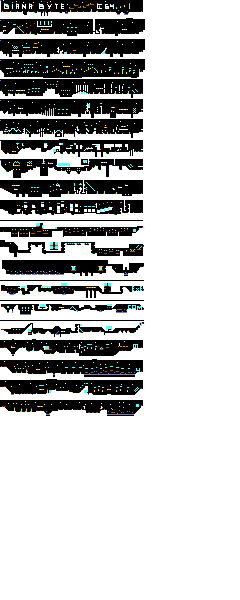
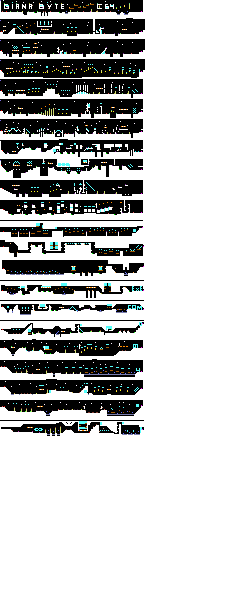
renderer is static now, added 21st level

Changed region(s): [[0.0, 0.69, 0.6125, 0.75]]

diff --git a/core/src/com/mdinic/game/giana/MapRenderer.java b/core/src/com/mdinic/game/giana/MapRenderer.java
@@ -19,6 +19,7 @@ import com.badlogic.gdx.graphics.g2d.freetype.FreeTypeFontGenerator;
 import com.badlogic.gdx.graphics.g2d.freetype.FreeTypeFontGenerator.FreeTypeFontParameter;
 import com.badlogic.gdx.math.Vector3;
 import com.mdinic.game.giana.Bullet.BulletState;
+import com.mdinic.game.giana.LevelConf.BrickColor;
 
 public class MapRenderer {
 
@@ -26,10 +27,11 @@ public class MapRenderer {
     Map map;
     OrthographicCamera cam;
 
+    float stateTime = 0;
+    Vector3 lerpTarget = new Vector3();
+
     SpriteBatch batch = new SpriteBatch(5460);
     private final SpriteBatch fontBatch;
-
-    int[][] blocks;
 
     Animation gianaLeft;
     Animation gianaRight;
@@ -47,11 +49,12 @@ public class MapRenderer {
     Animation gianaGrow;
     Animation smallDiamondAnim;
     Animation diamondAnim;
-    Animation treatBoxAnim;
+    java.util.Map<BrickColor, Animation> treatBoxAnim = new HashMap<BrickColor, Animation>();
     Animation whiteCristalAnim;
 
-    TextureRegion tileTexture;
-    TextureRegion usedTreatBox;
+    java.util.Map<BrickColor, TextureRegion> tileTexture = new HashMap<BrickColor, TextureRegion>();
+
+    java.util.Map<BrickColor, TextureRegion> usedTreatBox = new HashMap<BrickColor, TextureRegion>();
     TextureRegion spawn;
     TextureRegion dying;
     TextureRegion endDoor;
@@ -63,52 +66,67 @@ public class MapRenderer {
 
     java.util.Map<GoundMonsterType, Animation[]> groundMonsterAnimations = new HashMap<GoundMonsterType, Animation[]>();
 
-    private BitmapFont font;
-
-    int fontSize;
+    private final BitmapFont font;
 
     java.util.Map<SimpleImageType, TextureRegion> simpleImageTextureRegions = new HashMap<SimpleImageType, TextureRegion>();
     java.util.Map<FixedTrapType, Animation> fixedTrapTypeAnim = new HashMap<FixedTrapType, Animation>();
 
-    private Animation treatBallRightAnim;
-    private Animation treatBallLeftAnim;
-    private Animation piranhaUpAnim;
-    private Animation piranhaDownAnim;
-    private Animation waspRightAnim;
-    private Animation waspLeftAnim;
-    private Animation quicksandAnim;
-    private Animation brickAnim;
+    private final Animation treatBallRightAnim;
+    private final Animation treatBallLeftAnim;
+    private final Animation piranhaUpAnim;
+    private final Animation piranhaDownAnim;
+    private final Animation waspRightAnim;
+    private final Animation waspLeftAnim;
+    java.util.Map<BrickColor, Animation> quicksandAnim = new HashMap<LevelConf.BrickColor, Animation>();
 
-    private Animation lightningAnim;
-    private Animation doubleLightningAnim;
+    java.util.Map<BrickColor, Animation> brickAnim = new HashMap<LevelConf.BrickColor, Animation>();
 
-    public MapRenderer(Map map) {
-        this.map = map;
+    private final Animation lightningAnim;
+    private final Animation doubleLightningAnim;
+
+    public MapRenderer() {
+
         this.cam = new OrthographicCamera(20, SCENE_HEIGHT);
 
         fontBatch = new SpriteBatch();
         fontBatch.getProjectionMatrix().setToOrtho2D(0, 0, 480, 320);
 
-        this.cam.position.set(map.giana.pos.x, map.giana.pos.y, 0);
-        this.blocks = new int[(int) Math.ceil(this.map.tiles.length / 24.0f)][(int) Math
-                .ceil(this.map.tiles[0].length / 16.0f)];
+        Texture sprites = new Texture(Gdx.files.internal("data/sprites.png"));
 
-        createAnimations();
-    }
+        for (BrickColor color : BrickColor.values()) {
+            Texture brick = new Texture(Gdx.files.internal("data/bricks-" + color.getName() + ".png"));
 
-    private void createAnimations() {
-        LevelConf colors = LevelConf.values()[map.level];
+            TextureRegion[] brickRegion = new TextureRegion(brick).split(24, 16)[0];
+            brickAnim.put(color, new Animation(0.1f, brickRegion[1], brickRegion[2], brickRegion[3], brickRegion[4]));
 
-        Texture brick = new Texture(Gdx.files.internal("data/bricks-" + colors.getBrickColor().getName() + ".png"));
+            tileTexture.put(color, brickRegion[0]);
 
-        TextureRegion[] brickRegion = new TextureRegion(brick).split(24, 16)[0];
-        brickAnim = new Animation(0.1f, brickRegion[1], brickRegion[2], brickRegion[3], brickRegion[4]);
+            quicksandAnim.put(
+                    color,
+                    new Animation(0.1f, new TextureRegion(new Texture(Gdx.files.internal("data/quicksand-"
+                            + color.getName() + ".png"))).split(20, 20)[0]));
+
+            // treat box
+
+            Texture treatboxTexture = new Texture(Gdx.files.internal("data/treatbox-" + color.getName() + ".png"));
+
+            TextureRegion[] treatboxRegion = new TextureRegion(treatboxTexture).split(30, 20)[0];
+
+            usedTreatBox.put(color, new TextureRegion(sprites, 213 + color.ordinal() * 30, 377, 30, 20));
+
+            List<TextureRegion> tbArray = new ArrayList<TextureRegion>();
+            for (int i = 0; i < treatboxRegion.length; i++) {
+                tbArray.add(treatboxRegion[i]);
+            }
+            for (int i = treatboxRegion.length - 1; i >= 0; i--) {
+                tbArray.add(treatboxRegion[i]);
+            }
+            treatBoxAnim.put(color, new Animation(0.2f, tbArray.toArray(new TextureRegion[10])));
+        }
 
         bullet = new TextureRegion(new Texture(Gdx.files.internal("data/bullet.png")));
         bulletExplode = new TextureRegion(new Texture(Gdx.files.internal("data/bulletexplode.png")));
 
-        Texture sprites = new Texture(Gdx.files.internal("data/sprites.png"));
-        this.tileTexture = brickRegion[0];
         this.endDoor = new TextureRegion(sprites, 16, 196, 32, 32);
 
         simpleImageTextureRegions.put(SimpleImageType.BIG_CLOUD, new TextureRegion(sprites, 13, 10, 42, 17));
@@ -130,8 +148,7 @@ public class MapRenderer {
 
         Texture gianaTexture = new Texture(Gdx.files.internal("data/giana.png"));
         Texture diamondTexture = new Texture(Gdx.files.internal("data/diamond.png"));
-        Texture treatboxTexture = new Texture(Gdx.files.internal("data/treatbox-" + colors.getBrickColor().getName()
-                + ".png"));
+
         Texture movingSpikesTexture = new Texture(Gdx.files.internal("data/movingspikes.png"));
         Texture fireTexture = new Texture(Gdx.files.internal("data/fire.png"));
         Texture waterTexture = new Texture(Gdx.files.internal("data/water.png"));
@@ -145,9 +162,6 @@ public class MapRenderer {
         fixedTrapTypeAnim.put(FixedTrapType.MOVING_SPIKES, movingSpikesAnim);
         fixedTrapTypeAnim.put(FixedTrapType.WATER, waterAnim);
         fixedTrapTypeAnim.put(FixedTrapType.TRIANGLE, triangleAnim);
-
-        quicksandAnim = new Animation(0.1f, new TextureRegion(new Texture(Gdx.files.internal("data/quicksand-"
-                + colors.getBrickColor().getName() + ".png"))).split(20, 20)[0]);
 
         loadMonster("purple-alien", 20, 20, GoundMonsterType.PURPLE_ALIEN, 0.3f, false);
         loadMonster("yellow-alien", 20, 20, GoundMonsterType.YELLOW_ALIEN, 0.3f, false);
@@ -199,20 +213,6 @@ public class MapRenderer {
                 new Animation[] { new Animation(0.2f, groundMonstersRegion.split(24, 20)[0]) });
 
         diamondAnim = new Animation(0.3f, new TextureRegion(diamondTexture).split(16, 16)[0]);
-
-        // treat box
-        TextureRegion[] treatboxRegion = new TextureRegion(treatboxTexture).split(30, 20)[0];
-
-        usedTreatBox = new TextureRegion(sprites, 213 + colors.getBrickColor().ordinal() * 30, 377, 30, 20);
-
-        List<TextureRegion> tbArray = new ArrayList<TextureRegion>();
-        for (int i = 0; i < treatboxRegion.length; i++) {
-            tbArray.add(treatboxRegion[i]);
-        }
-        for (int i = treatboxRegion.length - 1; i >= 0; i--) {
-            tbArray.add(treatboxRegion[i]);
-        }
-        treatBoxAnim = new Animation(0.2f, tbArray.toArray(new TextureRegion[10]));
 
         TextureRegion treatBallRegion = new TextureRegion(gianaTexture, 0, 88, 175, 18);
 
@@ -272,16 +272,16 @@ public class MapRenderer {
         FreeTypeFontGenerator generator = new FreeTypeFontGenerator(Gdx.files.internal("data/Giana.ttf"));
         FreeTypeFontParameter parameter = new FreeTypeFontParameter();
 
-        fontSize = (Gdx.graphics.getHeight() / 320) * 12;
-
         parameter.size = 10;
         font = generator.generateFont(parameter); // font size 12
         font.setColor(new Color(0.87f, 0.95f, 0.47f, 1));
         generator.dispose(); // don't forget to dispose to avoid memory leaks!
     }
 
-    float stateTime = 0;
-    Vector3 lerpTarget = new Vector3();
+    public void setMap(Map map) {
+        this.map = map;
+        this.cam.position.set(map.giana.pos.x, map.giana.pos.y, 0);
+    }
 
     public void render(float deltaTime) {
 
@@ -462,11 +462,12 @@ public class MapRenderer {
     }
 
     private void renderTreatBoxes() {
+        BrickColor color = LevelConf.values()[map.level].getBrickColor();
         for (TreatBox box : map.treatBoxes) {
             if (box.active) {
-                batch.draw(treatBoxAnim.getKeyFrame(box.stateTime, true), box.pos.x, box.pos.y, 1, 1);
+                batch.draw(treatBoxAnim.get(color).getKeyFrame(box.stateTime, true), box.pos.x, box.pos.y, 1, 1);
             } else {
-                batch.draw(usedTreatBox, box.pos.x, box.pos.y, 1, 1);
+                batch.draw(usedTreatBox.get(color), box.pos.x, box.pos.y, 1, 1);
             }
         }
     }
@@ -520,9 +521,10 @@ public class MapRenderer {
     }
 
     private void renderQuickSand() {
+        BrickColor color = LevelConf.values()[map.level].getBrickColor();
         for (QuickSand sand : map.quickSandArray) {
             if (sand.active) {
-                TextureRegion frame = quicksandAnim.getKeyFrame(sand.stateTime, false);
+                TextureRegion frame = quicksandAnim.get(color).getKeyFrame(sand.stateTime, false);
 
                 batch.draw(frame, sand.pos.x + 0.0f, sand.pos.y, 0.33f, 1);
                 batch.draw(frame, sand.pos.x + 0.33f, sand.pos.y, 0.33f, 1);
@@ -550,15 +552,15 @@ public class MapRenderer {
     }
 
     private void drawBlocks() {
-
+        BrickColor color = LevelConf.values()[map.level].getBrickColor();
         for (Tile tile : map.tileArray) {
             if (tile.active) {
                 switch (tile.state) {
                 case NORMAL:
-                    batch.draw(tileTexture, tile.pos.x, tile.pos.y, 1, 1);
+                    batch.draw(tileTexture.get(color), tile.pos.x, tile.pos.y, 1, 1);
                     break;
                 case EXPLODING:
-                    batch.draw(brickAnim.getKeyFrame(tile.stateTime, false), tile.pos.x, tile.pos.y, 1, 1);
+                    batch.draw(brickAnim.get(color).getKeyFrame(tile.stateTime, false), tile.pos.x, tile.pos.y, 1, 1);
                     break;
                 case GONE:
                     break;
@@ -591,8 +593,6 @@ public class MapRenderer {
     }
 
     public void dispose() {
-        tileTexture.getTexture().dispose();
-        usedTreatBox.getTexture().dispose();
         spawn.getTexture().dispose();
         dying.getTexture().dispose();
         endDoor.getTexture().dispose();
@@ -601,6 +601,14 @@ public class MapRenderer {
         waspLeftDead.getTexture().dispose();
         waspRightDead.getTexture().dispose();
         strawberry.getTexture().dispose();
+
+        for (Entry<BrickColor, TextureRegion> entry : tileTexture.entrySet()) {
+            entry.getValue().getTexture().dispose();
+        }
+
+        for (Entry<BrickColor, TextureRegion> entry : usedTreatBox.entrySet()) {
+            entry.getValue().getTexture().dispose();
+        }
 
         for (Entry<FixedTrapType, Animation> entry : fixedTrapTypeAnim.entrySet()) {
             disposeAnimation(entry.getValue());
@@ -614,6 +622,18 @@ public class MapRenderer {
             for (Animation animation : entry.getValue()) {
                 disposeAnimation(animation);
             }
+        }
+
+        for (Entry<BrickColor, Animation> entry : treatBoxAnim.entrySet()) {
+            disposeAnimation(entry.getValue());
+        }
+
+        for (Entry<BrickColor, Animation> entry : quicksandAnim.entrySet()) {
+            disposeAnimation(entry.getValue());
+        }
+
+        for (Entry<BrickColor, Animation> entry : brickAnim.entrySet()) {
+            disposeAnimation(entry.getValue());
         }
 
         disposeAnimation(gianaLeft);
@@ -632,15 +652,13 @@ public class MapRenderer {
         disposeAnimation(gianaGrow);
         disposeAnimation(smallDiamondAnim);
         disposeAnimation(diamondAnim);
-        disposeAnimation(treatBoxAnim);
+
         disposeAnimation(treatBallRightAnim);
         disposeAnimation(treatBallLeftAnim);
         disposeAnimation(piranhaUpAnim);
         disposeAnimation(piranhaDownAnim);
         disposeAnimation(waspRightAnim);
         disposeAnimation(waspLeftAnim);
-        disposeAnimation(quicksandAnim);
-        disposeAnimation(brickAnim);
         disposeAnimation(lightningAnim);
         disposeAnimation(doubleLightningAnim);
         disposeAnimation(whiteCristalAnim);

diff --git a/core/src/com/mdinic/game/giana/screens/GameScreen.java b/core/src/com/mdinic/game/giana/screens/GameScreen.java
@@ -8,13 +8,12 @@ import com.badlogic.gdx.graphics.GL20;
 import com.mdinic.game.giana.GianaState;
 import com.mdinic.game.giana.LevelConf;
 import com.mdinic.game.giana.Map;
-import com.mdinic.game.giana.MapRenderer;
 import com.mdinic.game.giana.OnscreenControlRenderer;
 import com.mdinic.game.giana.Sounds;
 
 public class GameScreen extends GianaSistersScreen {
     Map map;
-    MapRenderer renderer;
+    // MapRenderer renderer;
     OnscreenControlRenderer controlRenderer;
 
     public GameScreen(Game game, int level) {
@@ -29,7 +28,7 @@ public class GameScreen extends GianaSistersScreen {
 
     @Override
     public void show() {
-        renderer = new MapRenderer(map);
+        renderer.setMap(map);
         controlRenderer = new OnscreenControlRenderer(map, this);
 
         Sounds.getInstance().play(LevelConf.values()[map.level].getMusic());
@@ -103,7 +102,6 @@ public class GameScreen extends GianaSistersScreen {
     public void hide() {
         Gdx.app.debug("GianaSisters", "dispose game screen");
         Sounds.getInstance().stop(LevelConf.values()[map.level].getMusic());
-        renderer.dispose();
         controlRenderer.dispose();
     }
 

diff --git a/core/src/com/mdinic/game/giana/LevelConf.java b/core/src/com/mdinic/game/giana/LevelConf.java
@@ -9,7 +9,8 @@ public enum LevelConf {
             BrickColor.RED, BgMusic.MUSIC_FAST), LEVEL12(BrickColor.GREY, BgMusic.MUSIC_FAST), LEVEL13(BrickColor.GREY,
             BgMusic.MUSIC_FAST), LEVEL14(BrickColor.GREY, BgMusic.MUSIC_FAST), LEVEL15(BrickColor.GREY,
             BgMusic.MUSIC_FAST), LEVEL16(BrickColor.RED, BgMusic.MUSIC_FAST), LEVEL17(0x826fe8, BrickColor.BROWN,
-            BgMusic.MUSIC_LIGHT), LEVEL18(0x826fe8), LEVEL19(0x826fe8), LEVEL20(0x826fe8);
+            BgMusic.MUSIC_LIGHT), LEVEL18(0x826fe8), LEVEL19(0x826fe8), LEVEL20(0x826fe8), LEVEL21(BrickColor.VIOLET,
+            BgMusic.MUSIC_FAST), LEVEL22(BrickColor.VIOLET, BgMusic.MUSIC_FAST);
 
     enum BrickType {
         SMALL, BIG

diff --git a/core/src/com/mdinic/game/giana/screens/GianaSistersScreen.java b/core/src/com/mdinic/game/giana/screens/GianaSistersScreen.java
@@ -3,6 +3,7 @@ package com.mdinic.game.giana.screens;
 import com.badlogic.gdx.Game;
 import com.badlogic.gdx.Screen;
 import com.mdinic.game.giana.GianaSistersC64;
+import com.mdinic.game.giana.MapRenderer;
 
 public abstract class GianaSistersScreen implements Screen {
 
@@ -11,8 +12,13 @@ public abstract class GianaSistersScreen implements Screen {
     public static final int SCREEN_WIDTH = 480;
     public static final int LEVEL_COUNT = 20;
 
+    protected static MapRenderer renderer;
+
     public GianaSistersScreen(Game game) {
         this.game = game;
+        if (renderer == null) {
+            renderer = new MapRenderer();
+        }
     }
 
     public GianaSistersC64 getGame() {
